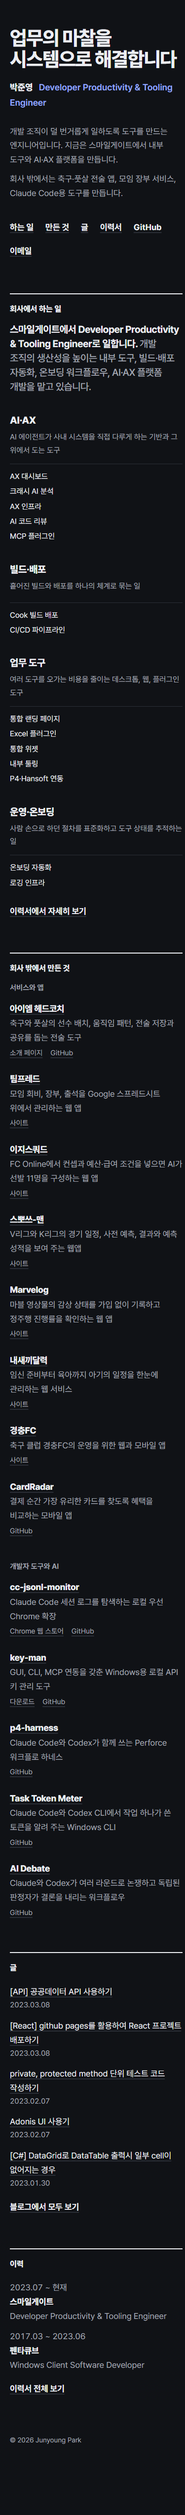
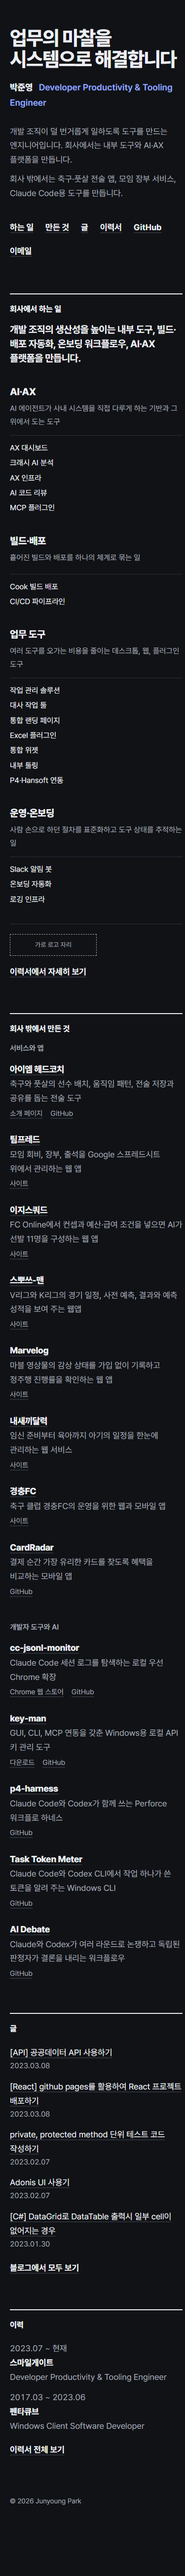
docs: add recent work items and drop the employer sentence from the home concept
Three work items from the owner (work management solution, dialogue tooling, Slack alert bot) join the shared data. The home page no longer names the employer in text; a slot marks where the official horizontal logo goes.

Claude-Session: https://claude.ai/code/session_01DZpLi4tfTJayDuuEE3zf7n

diff --git a/docs/ux-concepts/career-site-home/concept-03/index.html b/docs/ux-concepts/career-site-home/concept-03/index.html
@@ -23,13 +23,15 @@
     .rest > section + section { margin-top: 88px; }
     h2 { padding: 16px 0 14px; font-size: 1rem; font-weight: 800; border-top: 2px solid var(--ink); }
     .lead { max-width: 30em; font-size: clamp(1.25rem, 2.4vw, 1.625rem); font-weight: 700; line-height: 1.45; letter-spacing: -0.025em; }
-    .lead span { color: var(--ink-2); font-weight: 500; }
+    .employer { display: flex; flex-wrap: wrap; align-items: center; justify-content: space-between; gap: 12px 24px; margin-top: 36px; padding-top: 20px; border-top: 1px solid var(--rule); }
+    .employer .more { margin-top: 0; }
+    .logo-slot { display: inline-grid; place-items: center; width: 176px; height: 44px; font-size: 13px; color: var(--ink-2); border: 1px dashed var(--ink-2); }
     /* Work: four fields side by side. */
     .fields { display: grid; grid-template-columns: repeat(4, minmax(0, 1fr)); gap: 32px; margin-top: 36px; }
     .fields > div { display: grid; grid-template-rows: subgrid; grid-row: span 3; gap: 0; } /* headings, blurbs and lists line up across fields */
     .fields h3 { font-size: 1.25rem; font-weight: 800; letter-spacing: -0.02em; }
     .fields .blurb { margin-top: 4px; font-size: 15.5px; color: var(--ink-2); }
-    .fields ul { display: grid; gap: 4px; margin-top: 14px; padding-top: 12px; font-size: 15.5px; border-top: 1px solid var(--rule); }
+    .fields ul { display: grid; align-content: start; gap: 4px; margin-top: 14px; padding-top: 12px; font-size: 15.5px; border-top: 1px solid var(--rule); }
     /* Made: two groups, each a two-column list. */
     .group + .group { margin-top: 44px; }
     .group h3 { font-size: 15px; font-weight: 600; color: var(--ink-2); }
@@ -68,7 +70,11 @@
       <h2 id="work-title">회사에서 하는 일</h2>
       <p class="lead" id="work-lead"></p>
       <div class="fields" id="fields"></div>
-      <a class="more" href="../../career-site-simple/concept-04/index.html" style="margin-top: 24px">이력서에서 자세히 보기</a>
+      <div class="employer">
+        <!-- TODO: official horizontal Smilegate logo, about 160x40, light and dark versions. Supplied by the owner. -->
+        <span class="logo-slot" role="img" aria-label="스마일게이트 가로 로고가 들어갈 자리">가로 로고 자리</span>
+        <a class="more" href="../../career-site-simple/concept-04/index.html">이력서에서 자세히 보기</a>
+      </div>
     </section>
     <section>
       <h2 id="made-title">회사 밖에서 만든 것</h2>
@@ -94,7 +100,8 @@
       H.fill();
       // What I do at work: the current employer's work grouped by field (same data as the resume).
       const now = C.companies.find((c) => !c.end);
-      H.set('work-lead', esc(now.name) + '에서 ' + esc(now.role) + '로 일합니다. <span>' + esc(now.description) + '을 맡고 있습니다.</span>');
+      // No employer name in the text (owner's call, 2026-11-14). The employer shows as a logo under the fields.
+      H.set('work-lead', '개발 조직의 생산성을 높이는 내부 도구, 빌드·배포 자동화, 온보딩 워크플로우, AI·AX 플랫폼을 만듭니다.');
       H.set('fields', C.themes
         .map((t) => ({ t: t, list: now.projects.filter((p) => p.theme === t.id) }))
         .filter((x) => x.list.length)

diff --git a/docs/ux-concepts/career-site/shared/data.js b/docs/ux-concepts/career-site/shared/data.js
@@ -36,6 +36,10 @@ window.CAREER = {
       description:
         '개발 조직의 생산성을 높이는 내부 도구, 빌드·배포 자동화, 온보딩 워크플로우, AI·AX 플랫폼 개발',
       projects: [
+        // Added 2026-11-14 from the owner's message. Titles only until the owner writes the detail.
+        { short: '작업 관리 솔루션', theme: 'tools', title: '작업 관리 솔루션(웹) 개편 및 운영', bullets: [] },
+        { short: '대사 작업 툴', theme: 'tools', title: '대사 작업을 위한 툴 개발', bullets: [] },
+        { short: 'Slack 알림 봇', theme: 'ops', title: 'Slack 봇을 통한 알림 체계 확립', bullets: [] },
         { short: 'AX 대시보드', theme: 'ai', title: 'AX Dashboard 구축', bullets: [
           '조직 내 AI·AX 도입 현황, 사용 통계 및 관련 정보를 제공하는 대시보드 개발',
           '분산된 AI 관련 지표와 자료를 시각화하여 활용 현황과 성과를 한눈에 파악할 수 있도록 구성',

diff --git a/docs/ux-concepts/career-site-home/shared/home.js b/docs/ux-concepts/career-site-home/shared/home.js
@@ -12,7 +12,7 @@ window.HOME = {
   slogan: '업무의 마찰을 시스템으로 해결합니다',
   // Written for these drafts from facts already on the site. To be confirmed by the owner.
   intro: [
-    '개발 조직이 덜 번거롭게 일하도록 도구를 만드는 엔지니어입니다. 지금은 스마일게이트에서 내부 도구와 AI·AX 플랫폼을 만듭니다.',
+    '개발 조직이 덜 번거롭게 일하도록 도구를 만드는 엔지니어입니다. 회사에서는 내부 도구와 AI·AX 플랫폼을 만듭니다.',
     '회사 밖에서는 축구·풋살 전술 앱, 모임 장부 서비스, Claude Code용 도구를 만듭니다.',
   ],
   // Picked by the owner on 2026-11-14. Link rule (owner's): a deployed project links to the finished thing,

diff --git a/docs/ux-concepts/career-site-simple/shared/simple.js b/docs/ux-concepts/career-site-simple/shared/simple.js
@@ -9,7 +9,9 @@
     projects
       .map(
         (p) =>
-          '<li><details class="item"><summary><i class="ph ph-plus" aria-hidden="true"></i><span>' + esc(p.title) + '</span></summary>' +
+          !p.bullets.length
+            ? '<li class="item-plain"><span>' + esc(p.title) + '</span></li>'
+            : '<li><details class="item"><summary><i class="ph ph-plus" aria-hidden="true"></i><span>' + esc(p.title) + '</span></summary>' +
           '<ul class="bul">' + p.bullets.map((b) => '<li>' + esc(b) + '</li>').join('') + '</ul></details></li>'
       )
       .join('') +

diff --git a/docs/ux-concepts/career-site-simple/shared/simple.css b/docs/ux-concepts/career-site-simple/shared/simple.css
@@ -89,6 +89,11 @@ a:hover {
   list-style: none;
 }
 
+/* Work with no detail yet: same line, nothing to open. */
+.item-plain {
+  padding: 5px 0 5px 23px;
+}
+
 .item summary::-webkit-details-marker {
   display: none;
 }

diff --git a/docs/ux-concepts/career-site-home/README.md b/docs/ux-concepts/career-site-home/README.md
@@ -82,6 +82,13 @@ M 시안(`concept-03`)에 반영한 것
 - 한 줄 설명은 각 프로젝트 README와 스토어 문구에서 가져왔다. 모든 링크가 200으로 열리는 것을 2026-11-14에 확인했다.
 - K, L은 고르지 않은 시안이라 순서를 바꾸지 않았다. 프로젝트 목록만 같은 데이터로 바뀌었다.
 
+사용자 추가 결정 (2026-11-14, 두 번째)
+
+- 회사 업무 3건 추가: 작업 관리 솔루션(웹) 개편 및 운영, 대사 작업을 위한 툴 개발, Slack 봇을 통한 알림 체계 확립. 제목만 받았고 상세는 없다. `../career-site/shared/data.js`에 넣어 이력서 시안에도 같이 나온다. 분야는 내가 붙였다(앞의 둘은 업무 도구, 마지막은 운영·온보딩).
+- "스마일게이트에서 ~로 일합니다" 문장은 부담스럽다고 해서 뺐다. 홈의 소개와 "회사에서 하는 일" 문장에 회사 이름을 쓰지 않는다.
+- 대신 회사 가로 로고를 "회사에서 하는 일" 아래에 붙인다. 공식 로고 파일을 받지 못해 시안에는 점선 자리만 있다. 로고를 직접 그리거나 비공식 파일을 쓰지 않는다.
+- 영문 직무 표기(Developer Productivity & Tooling Engineer)는 사용자가 맞는지 물었고 아직 정하지 않았다.
+
 남은 확인
 
 - 스뽀쓰-맨은 경기 예측 사이트다. 이력서와 같은 사이트에 올려도 되는지는 사용자가 골랐으므로 그대로 넣었다.
